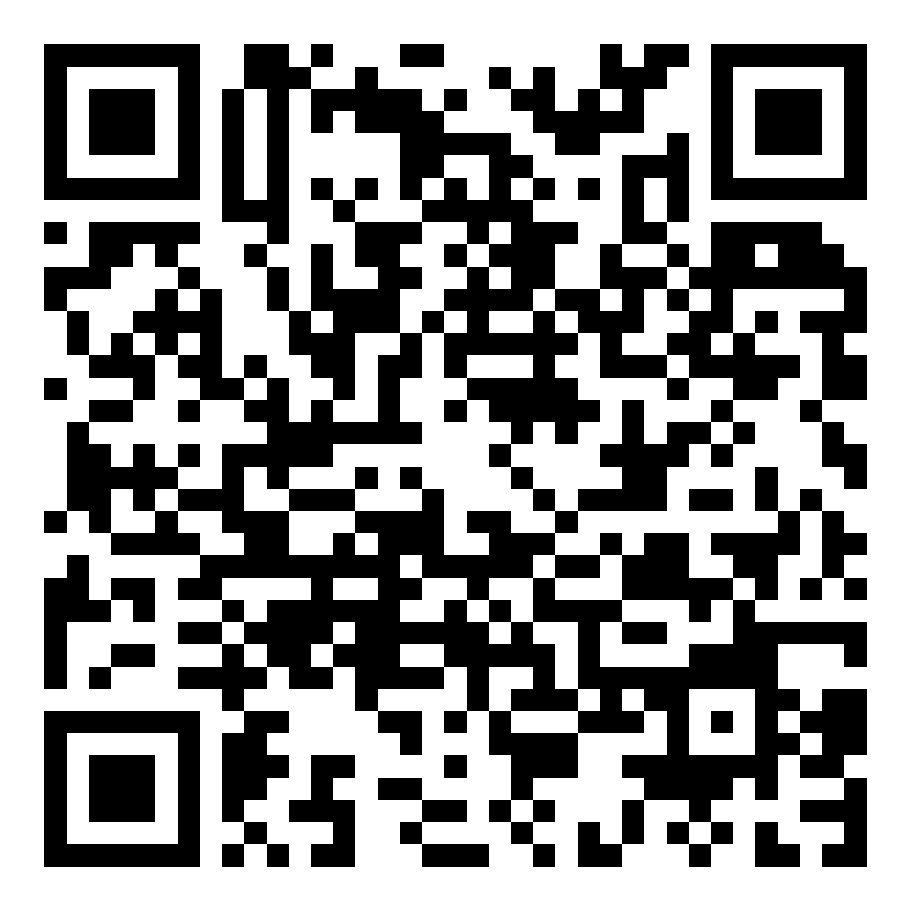
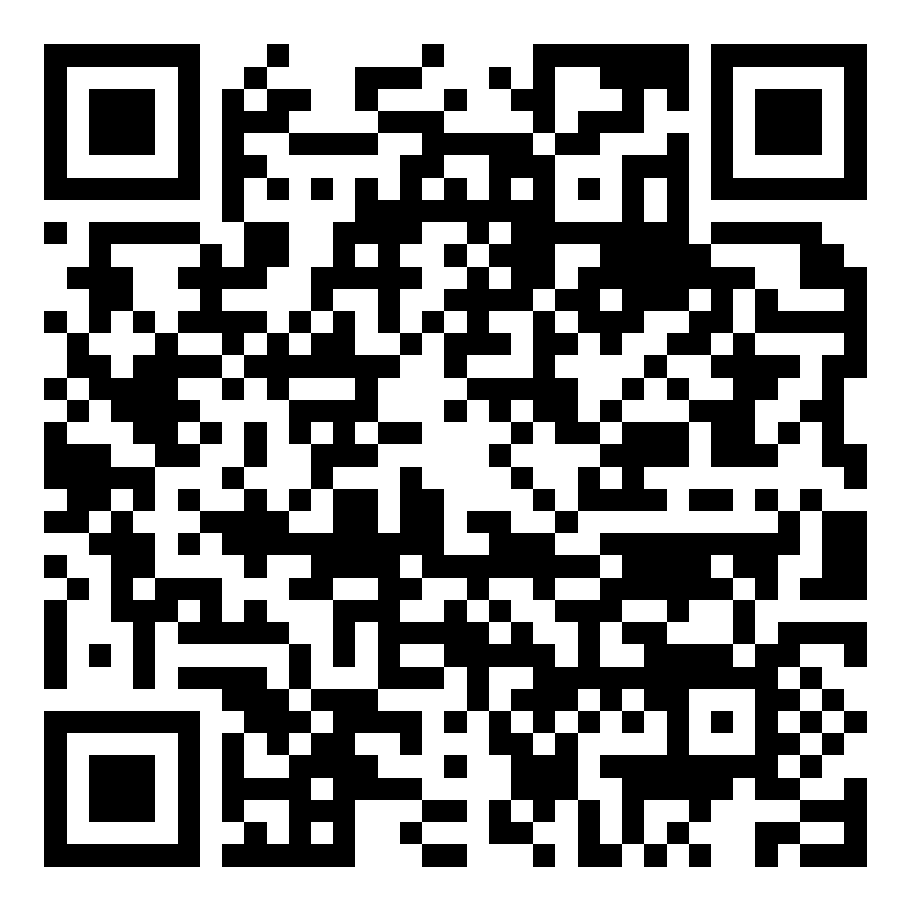
feat: update 15h35 091026

diff --git a/index.html b/index.html
@@ -2011,14 +2011,14 @@
                         <p class="text-xs text-[#FFF6E6] leading-relaxed mb-6">
                             Quý đại biểu quét mã QR hoặc bấm nút bên dưới để truy cập thư mục tài liệu chính thức của sự kiện.
                         </p>
-                        <a href="https://drive.google.com/drive/folders/1AmSyzuvWOhCF2sr1njENSNAP5cYHWLsI" target="_blank" rel="noopener noreferrer" class="inline-flex items-center px-6 py-3.5 rounded-xl bg-[#FBAB18] text-[#7A0C12] font-extrabold text-sm hover:bg-amber-300 transition-all shadow-md">
+                        <a href="https://drive.google.com/drive/folders/1zk5_Oav39cY2Gk4sM_Uy7lpx12E5_mfU" target="_blank" rel="noopener noreferrer" class="inline-flex items-center px-6 py-3.5 rounded-xl bg-[#FBAB18] text-[#7A0C12] font-extrabold text-sm hover:bg-amber-300 transition-all shadow-md">
                             <i class="fa-solid fa-folder-open mr-2" aria-hidden="true"></i> Mở thư mục tài liệu
                         </a>
                     </div>
 
                     <div class="md:col-span-4 flex flex-col items-center justify-center">
                         <div class="bg-white p-2 rounded-2xl shadow-2xl border-4 border-[#FBAB18]">
-                            <a href="https://drive.google.com/drive/folders/1AmSyzuvWOhCF2sr1njENSNAP5cYHWLsI" target="_blank" rel="noopener noreferrer" aria-label="Mở thư mục tài liệu sự kiện">
+                            <a href="https://drive.google.com/drive/folders/1zk5_Oav39cY2Gk4sM_Uy7lpx12E5_mfU" target="_blank" rel="noopener noreferrer" aria-label="Mở thư mục tài liệu sự kiện">
                                 <img loading="lazy" decoding="async" src="assets/images/event-documents-qr.png" width="911" height="911" alt="QR mở thư mục tài liệu sự kiện" class="w-48 h-48 sm:w-56 sm:h-56">
                             </a>
                         </div>
